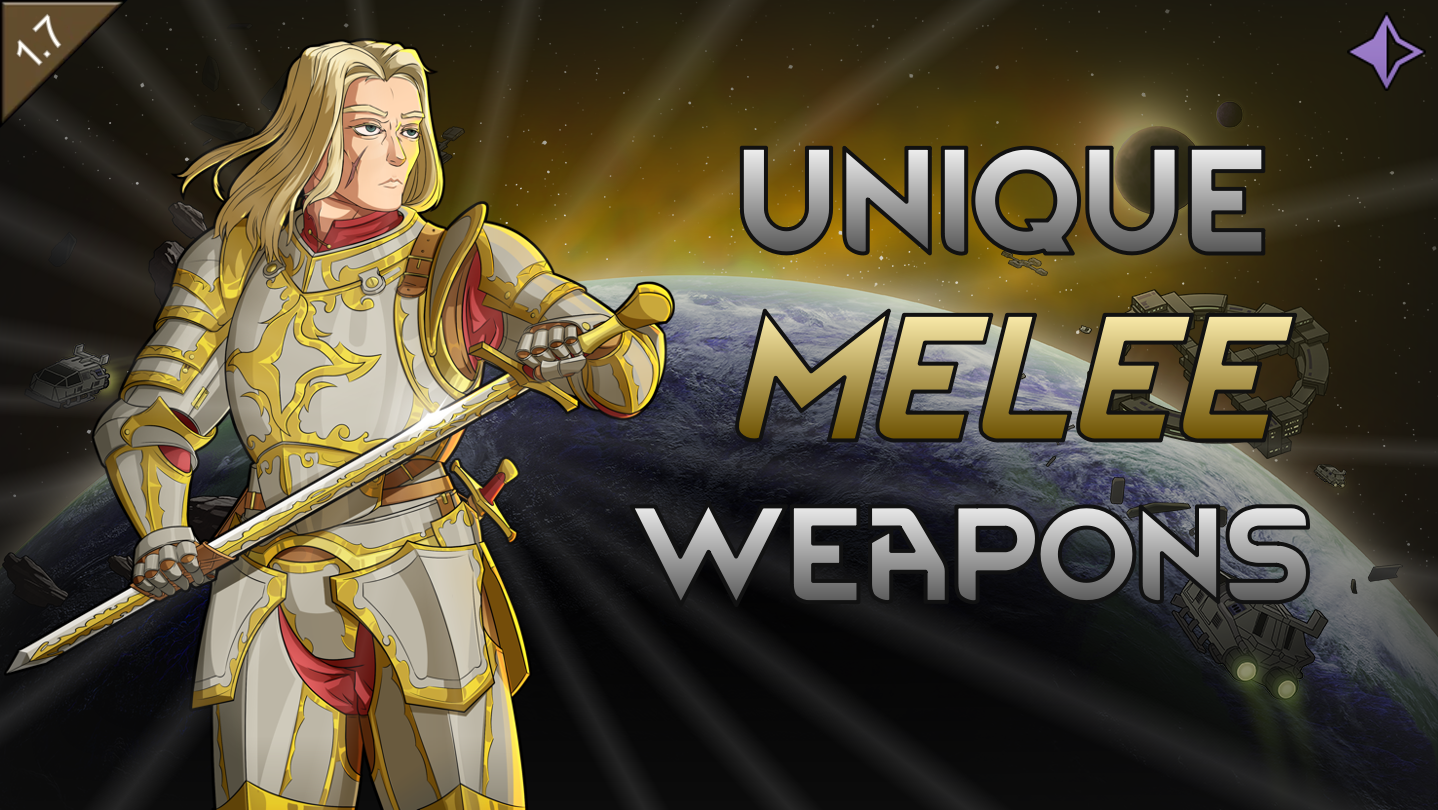
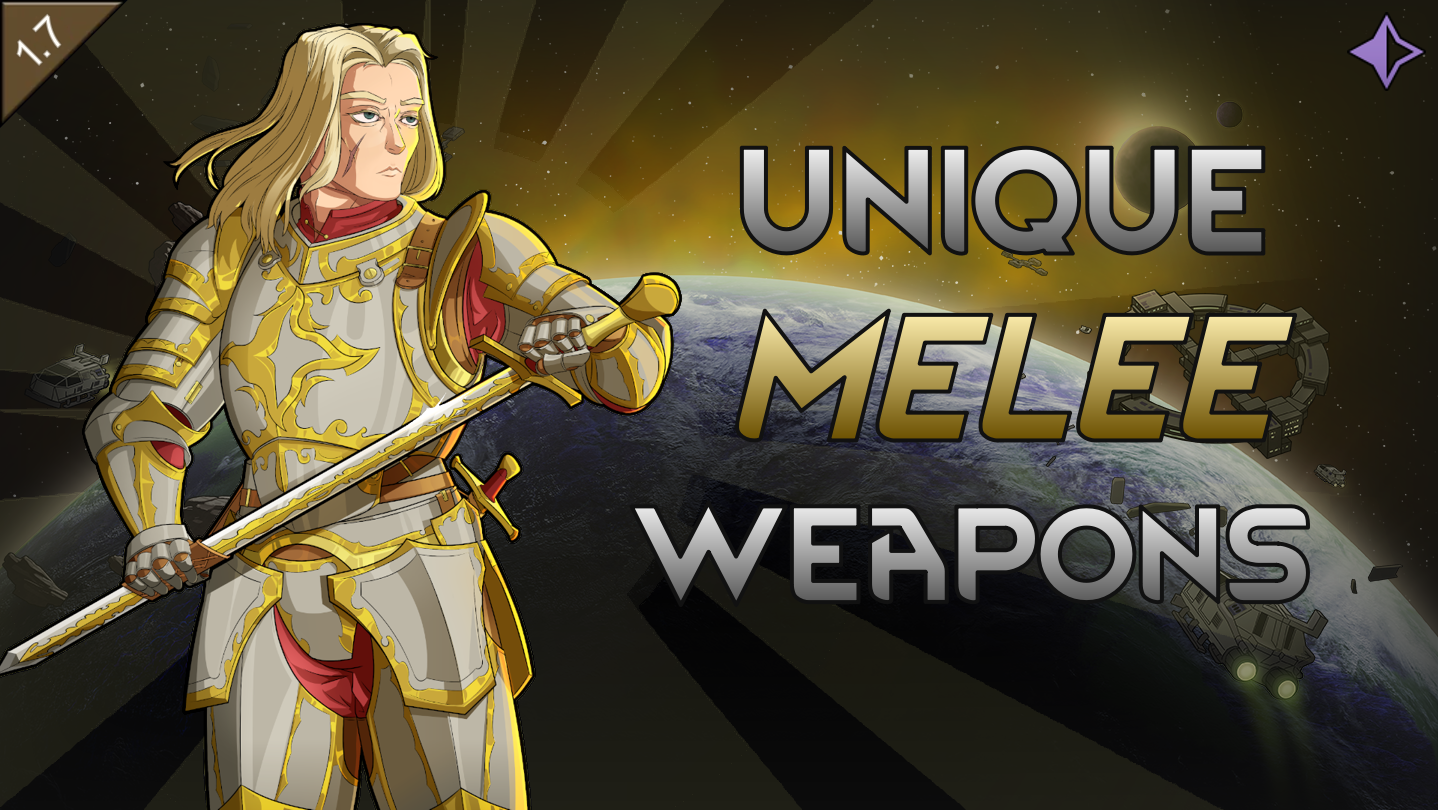
docs(workshop): Add the animated preview and its publish step
The commissioned preview art gets a richer background and an animated GIF
for the Workshop page. The corner badges are bumped to 1.7 with gif-patch,
which changes only the badge pixels, and the two PNGs then go through
png-opt losslessly. The GIF is 1028813 bytes, under Steam's 1 MiB preview
limit.

The release skill gains Toxin and Overlord Warcasket's step 9: the
Workshop publish walkthrough, ending in the preview-only SteamCMD update
that puts the GIF back after every in-game upload resets it to the static
PNG. The change notes and per-language page text move from step 8 into it.

Changed region(s): [[0.0, 0.0309, 0.4896, 1.0]]

diff --git a/.claude/skills/release/SKILL.md b/.claude/skills/release/SKILL.md
@@ -15,7 +15,7 @@ prerelease whose zip can be tried on another machine without building from
 source. They never go to the Steam Workshop and get no `CHANGELOG.md` section.
 Otherwise an RC is held to the same bar as a stable release (it should be what
 would ship), so it runs every step below except the changelog and the
-Workshop paste. SemVer orders `1.3.0 < 1.4.0-rc.1 < 1.4.0-rc.2 < 1.4.0`, so
+Workshop publish (step 9). SemVer orders `1.3.0 < 1.4.0-rc.1 < 1.4.0-rc.2 < 1.4.0`, so
 candidates sit between stable versions without disturbing them.
 
 `$ARGUMENTS` is optional and resolved at step 7, where the version is first
@@ -241,15 +241,94 @@ No further questions unless something is unexpected:
   commit list, and attaches `UniqueMeleeWeapons-v<version>.zip`. Point the
   user at the release page for the zip, and remind them it's publicly
   downloadable but must not be uploaded to the Workshop.
-- **Stable:** also show the changelog notes for the user to copy into the
-  **Steam Workshop** description. The **GitHub** release notes need no paste:
-  the tag-triggered workflow lifts this version's `CHANGELOG.md` section into
-  the release body itself (and hard-fails the release if the section is
-  missing), so the changelog entry written at step 7 is the release body. List
-  every `.steamworkshop/Description/` file changed since the last stable tag
-  (`git diff --name-only <last-stable-tag> -- .steamworkshop/Description/`),
-  not only those step 4 just touched: an earlier RC may already have committed
-  them, and the Workshop page has seen none of it. Remind the user to paste
-  each listed title and description into the Workshop page's per-language edit
-  UI (Steam's own language names differ: schinese, koreana, brazilian, latam,
-  ...).
+- **Stable:** the **GitHub** release notes need no paste: the tag-triggered
+  workflow lifts this version's `CHANGELOG.md` section into the release body
+  itself (and hard-fails the release if the section is missing), so the
+  changelog entry written at step 7 is the release body. Continue with step 9.
+
+### 9. Publish to the Steam Workshop (stable only)
+
+Nothing here is automated: Steam has no API for per-language text, page
+images live outside the repo, and the upload itself runs from the game. Walk
+the user through the hand-offs below in order and wait at each one.
+
+- **Upload from the game.** In the mod list, select Unique Melee Weapons, then
+  Advanced... > Upload to Steam Workshop. This uploads the local deploy that
+  step 8 just rebuilt; in one go it sets the content folder, the tags ("Mod"
+  plus every supported version from `About.xml`) and the preview, which it
+  always takes from `About/Preview.png`.
+  - **First release:** the game writes the new item's id to
+    `About/PublishedFileId.txt` of the *deployed* copy
+    (`Mods/UniqueMeleeWeapons/`), which the next build overwrites. Copy it into
+    the repo's `About/` and commit it as
+    `chore(about): Track the Workshop PublishedFileId`; the staging manifest
+    ships it, so every later upload updates this item instead of creating
+    another. Check the item's visibility on its page straight away and keep it
+    hidden until the rest of this step is on the page.
+  - **Which game client:** the 1.6 client, or the 1.7 client with its
+    "Build asset pack" box unticked; the two send the same bytes (the mod
+    folder verbatim, tags from `About.xml`), and that is what the CI zip and
+    the smoke test saw. Ticked, the 1.7 uploader bakes an `Assets.zip` of
+    BC7 textures into the root of every load folder its `<v1.7>` block names
+    that has `Textures/` or `Sounds/`, writing it into the *deployed* copy
+    (the next build removes it, so a later upload rebakes rather than reusing
+    a stale pack) and ships a Workshop item that differs from the tested
+    deploy. "Don't upload source textures" must stay unticked while 1.6 is
+    in `supportedVersions`: 1.6 ignores the pack and would ship with no art.
+- **Change notes:** show the changelog notes from step 7 for the user to paste
+  into the Workshop change notes of this upload.
+- **Title and description per language:** list every
+  `.steamworkshop/Description/` file changed since the last stable tag
+  (`git diff --name-only <last-stable-tag> -- .steamworkshop/Description/`;
+  on the first release, every file), not only those step 4 just touched: an
+  earlier RC may already have committed them, and the Workshop page has seen
+  none of it. Remind the user to paste each listed title and description into
+  the page's per-language edit UI (Steam's own language names differ:
+  schinese, koreana, brazilian, latam, ...).
+- **Page images:** the gallery lives in `.steamworkshop/Images/`. The user
+  uploads new or changed ones through the page's images and videos UI; list
+  any changed since the
+  last stable tag (`git diff --name-only <last-stable-tag> --
+  .steamworkshop/Images/`). Steam rejects gallery images of 2 MB or more and
+  takes no video files, so a gameplay clip goes up as a GIF cut to fit:
+  ffmpeg ships with Krita on the Windows side
+  (`.../steamapps/common/Krita/krita/bin/ffmpeg.exe`), and lowering frame
+  rate, scale and palette with Bayer dithering is what gets a few seconds of
+  combat under the limit:
+  ```bash
+  ffmpeg -i Clip.mp4 -lavfi "fps=8,scale=iw*0.75:-2:flags=lanczos,split[a][b];[a]palettegen=max_colors=48:stats_mode=diff[p];[b][p]paletteuse=dither=bayer:bayer_scale=4:diff_mode=rectangle" -loop 0 Clip.gif
+  ```
+- **Animated preview** (only when `.steamworkshop/Preview.gif` exists; skip
+  silently otherwise). The mod list loads `About/Preview.png` through Unity's
+  `LoadImage`, which decodes only PNG and JPG, so a GIF shipped under that name
+  draws nothing in-game. The Workshop preview is a separate Steam call from the
+  content upload, so the page gets the GIF through a preview-only SteamCMD
+  update *after* the in-game upload, which always resets the preview to the
+  static PNG. This bullet therefore repeats on every stable release.
+  - Steam rejects previews of 1 MB or more; check the file first:
+    ```bash
+    stat -c %s .steamworkshop/Preview.gif   # must be below 1048576
+    ```
+  - Write the update manifest (only the keys present are changed; omitting
+    `contentfolder` leaves the uploaded content alone):
+    ```bash
+    printf '"workshopitem"\n{\n    "appid" "294100"\n    "publishedfileid" "%s"\n    "previewfile" "%s"\n}\n' \
+      "$(cat About/PublishedFileId.txt)" "$PWD/.steamworkshop/Preview.gif" \
+      > "${TMPDIR:-/tmp}/UniqueMeleeWeapons-preview.vdf"
+    ```
+  - The user runs SteamCMD themselves in a separate terminal (the login
+    prompts for a Steam Guard code, and some reports say it signs the desktop
+    client out, so the game should be closed by now anyway):
+    ```bash
+    ~/steamcmd/steamcmd.sh +login <steam-account> +workshop_build_item "${TMPDIR:-/tmp}/UniqueMeleeWeapons-preview.vdf" +quit
+    ```
+    If `~/steamcmd/steamcmd.sh` is missing, it is the Linux build from Valve
+    (`sudo apt install lib32gcc-s1`, then
+    `mkdir -p ~/steamcmd && curl -sqL https://steamcdn-a.akamaihd.net/client/installer/steamcmd_linux.tar.gz | tar -zxf - -C ~/steamcmd`);
+    the first run self-updates and takes a minute.
+  - Verify on the page: the thumbnail animates, and the tags still read "Mod"
+    plus the supported versions. SteamCMD cannot set tags and has left them
+    alone so far; if they are ever gone, upload from the game again (which
+    restores them and the static preview), report it, and rerun the SteamCMD
+    update to see whether it repeats.
+- **First release:** set the item public once everything above is on the page.
